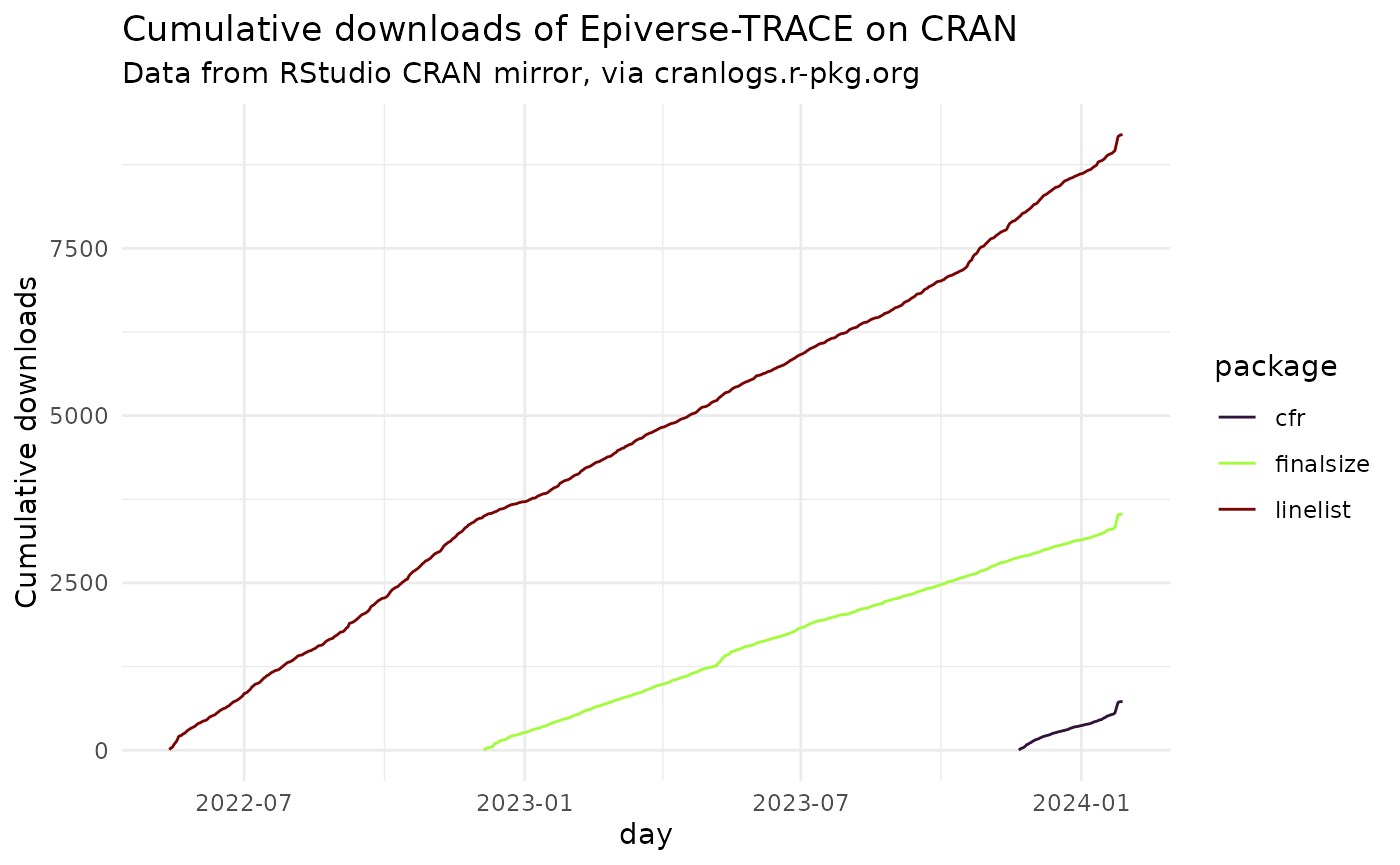
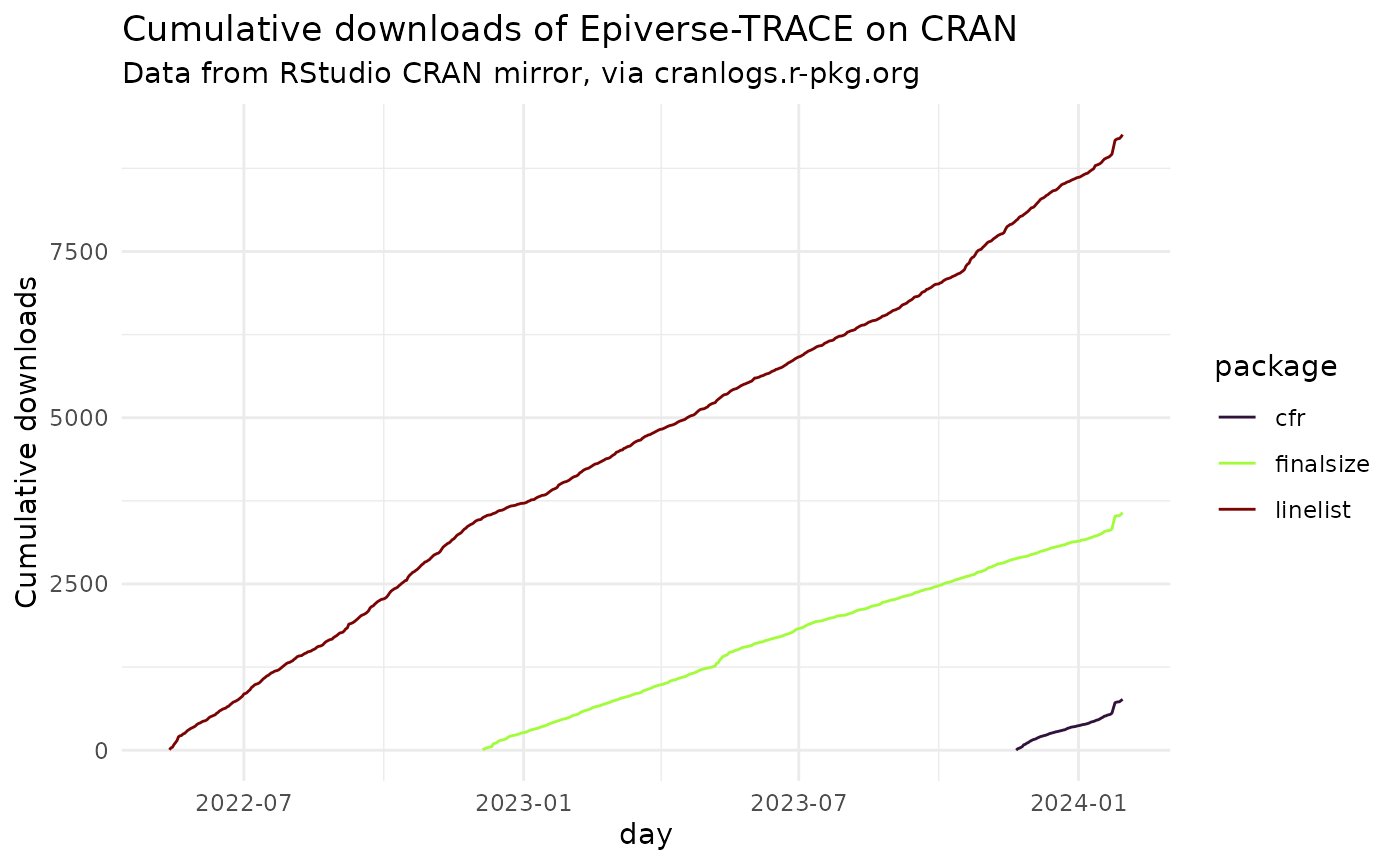
Deploying to gh-pages from @ epiverse-trace/etstats@9d61225d9c174d65a564ec1e8a65a4e6e780f251 🚀

diff --git a/articles/cran-statistics.html b/articles/cran-statistics.html
@@ -79,7 +79,7 @@
   <main id="main" class="col-md-9"><div class="page-header">
       <img src="" class="logo" alt=""><h1>CRAN statistics</h1>
             
-            <h4 data-toc-skip class="date">2024-01-30</h4>
+            <h4 data-toc-skip class="date">2024-02-01</h4>
       
       <small class="dont-index">Source: <a href="https://github.com/epiverse-trace/etstats/blob/HEAD/vignettes/cran-statistics.Rmd" class="external-link"><code>vignettes/cran-statistics.Rmd</code></a></small>
       <div class="d-none name"><code>cran-statistics.Rmd</code></div>
@@ -93,7 +93,7 @@
 <li><a href="https://cran.r-project.org/package=finalsize" class="external-link">finalsize</a></li>
 <li><a href="https://cran.r-project.org/package=linelist" class="external-link">linelist</a></li>
 </ul>
-<p>In total, Epiverse-TRACE packages on CRAN have been downloaded 13456
+<p>In total, Epiverse-TRACE packages on CRAN have been downloaded 13594
 times.</p>
 <p>Below is a visualization of the breakdown of this grand total by
 package over time.</p>
@@ -110,25 +110,25 @@ package over time.</p>
 <td align="left">finalsize</td>
 <td align="right">260</td>
 <td align="right">2881</td>
-<td align="right">387</td>
+<td align="right">431</td>
 </tr>
 <tr class="even">
 <td align="left">linelist</td>
 <td align="right">3712</td>
 <td align="right">4898</td>
-<td align="right">589</td>
+<td align="right">647</td>
 </tr>
 <tr class="odd">
 <td align="left">cfr</td>
 <td align="right">NA</td>
 <td align="right">364</td>
-<td align="right">365</td>
+<td align="right">401</td>
 </tr>
 <tr class="even">
 <td align="left">Total</td>
 <td align="right">3972</td>
 <td align="right">8143</td>
-<td align="right">1341</td>
+<td align="right">1479</td>
 </tr>
 </tbody>
 </table></main>

diff --git a/articles/github-statistics.html b/articles/github-statistics.html
@@ -79,7 +79,7 @@
   <main id="main" class="col-md-9"><div class="page-header">
       <img src="" class="logo" alt=""><h1>GitHub statistics</h1>
             
-            <h4 data-toc-skip class="date">2024-01-30</h4>
+            <h4 data-toc-skip class="date">2024-02-01</h4>
       
       <small class="dont-index">Source: <a href="https://github.com/epiverse-trace/etstats/blob/HEAD/vignettes/github-statistics.Rmd" class="external-link"><code>vignettes/github-statistics.Rmd</code></a></small>
       <div class="d-none name"><code>github-statistics.Rmd</code></div>
